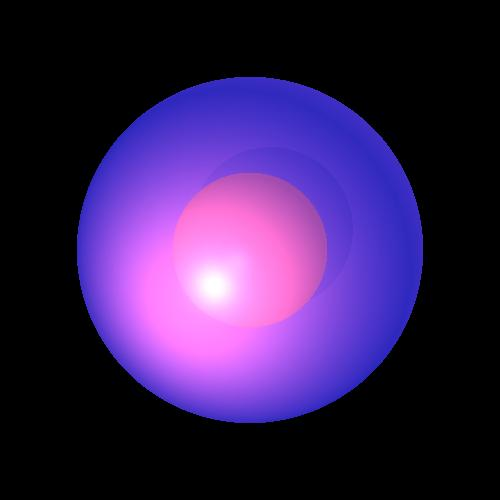
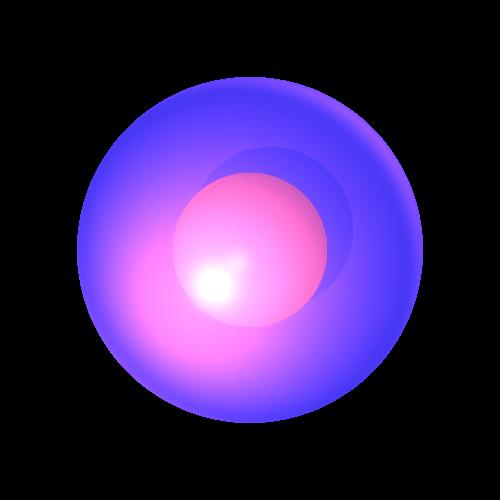
טיפה תיקונים

Changed region(s): [[0.15, 0.15, 0.87, 0.87]]

diff --git a/src/run.java b/src/run.java
@@ -39,7 +39,7 @@ int r , g ,b , Angle , t = 0,  _switch, lighttemp;
 
         while (t != 4 ) {
             System.out.println("for hourse test press 1\n" +
-                    "for shdow test press 2\n" +
+                    "for shadow test press 2\n" +
                     "for recursive test print 3 \n" +
                     "for exit press 4");
             Scanner s;
@@ -50,7 +50,7 @@ switch (_switch) {
     case 1:
         System.out.println("enter file name:");
         file_name = s.next();
-        System.out.println("enter itensity Color number between 0-100:");
+        System.out.println("enter intensity Color number between 0-10:");
         itensity = s.nextDouble();
         System.out.println("rendering");
 
@@ -296,7 +296,7 @@ switch (_switch) {
         b = s.nextInt();
         System.out.println("enter Angle:");
         Angle = s.nextInt();
-        System.out.println("enter itensity Color number between 0-100:");
+        System.out.println("enter itensity Color number between 0-10:");
         itensity = s.nextDouble();
         itensity /= 100;
         System.out.println("enter 1 to DirctionLight, enter 2 for pointLight, enter 3 for spot Light");
@@ -305,7 +305,7 @@ switch (_switch) {
             case 1: ligt = new DirectionalLight(new Color(r,g,b),new Vector(new Point3D(Math.sin(Angle)*-200,Math.cos(Angle)*-200,-200))) ;
                 break;
             case 2: ligt = new PointLight(new Color(r,g,b),new Point3D(Math.sin(Angle)*-200,Math.cos(Angle)*-200,-200), 0.1, 0.00001, 0.000005);
-                ((PointLight)ligt).setArea(10.0);
+                //((PointLight)ligt).setArea(10.0);
             break;
             case 3: ligt =  (new SpotLight(new Color(255, 100, 100), new Point3D(Math.sin(Angle)*-200 , Math.cos(Angle)*-200, -200),
                     new Vector(2, 2, -3), 0.1, 0.00001, 0.000005));
@@ -324,8 +324,8 @@ switch (_switch) {
         Sphere sphere = new Sphere(500, new Point3D(0.0, 0.0, -1000)) ;
         sphere.set_nShininess(20);
         sphere.set_emmission(new Color(0, 0, 100));
-        sphere.setKt(0.5);
-        sphere.setKd(0.8);
+        sphere.setKt(0.85);
+        //sphere.setKd(0.8);
         scene3.addGeometry(sphere);
 
         Sphere sphere2 = new Sphere(250, new Point3D(0.0, 0.0, -1000));

diff --git a/src/renderer/Render.java b/src/renderer/Render.java
@@ -303,8 +303,8 @@ public class Render implements Comparable<Render> {
         finalR =Math.min(255, _scene.get_ambientLight().getIntensity().getRed() + geometry.get_emmission().getRed() + difuseR + specularR + reflectedLight.getRed() + refractedLight.getRed());
         finalG =Math.min(255, _scene.get_ambientLight().getIntensity().getGreen() + geometry.get_emmission().getGreen() + difuseG + specularG + reflectedLight.getGreen() + refractedLight.getGreen());
         finalB =Math.min(255, _scene.get_ambientLight().getIntensity().getBlue() + geometry.get_emmission().getBlue() + difuseB + specularB + reflectedLight.getBlue() + refractedLight.getBlue());
-        Color IO = new Color(finalR, finalG, finalB);
-        return IO;
+        Color Phong_final = new Color(finalR, finalG, finalB);
+        return Phong_final;
 
     }
 
@@ -529,8 +529,8 @@ public class Render implements Comparable<Render> {
         Vector R = new Vector(lightToPoint);//R=D-...
         R.subtract(temp);
         double factor = cameraToPoint.dotProduct(R);
-        //if (factor >= 0)
-         //   return new Color(0,0,0);
+       // if (factor >= 0)
+          //  return new Color(0,0,0);
 
 
         factor = Math.pow(factor, nShininess);
@@ -589,7 +589,7 @@ public class Render implements Comparable<Render> {
     private double occluded(LightSource light, Point3D point, Geometry geometry) throws Exception {
         Point3D geometryPoint = new Point3D(point);
         Vector epsVector = new Vector(geometry.getNormal(point));
-        epsVector.scale(0.2);
+        epsVector.scale(0.0002);
         geometryPoint.add(epsVector);
 
         if (light instanceof PointLight && ((PointLight) light).getArea() != 0) {
@@ -699,10 +699,10 @@ public class Render implements Comparable<Render> {
 
         Vector epsVec = new Vector(normal);
         if(normal.dotProduct(R) < 0){
-            epsVec.scale(-0.2);
+            epsVec.scale(-0.00002);
         }
         else {
-            epsVec.scale(2);
+            epsVec.scale(0.000002);
         }
 
         Point3D pointIn = new Point3D(point);

diff --git a/Test/renderer/RenderTest_Rcorsive.java b/Test/renderer/RenderTest_Rcorsive.java
@@ -24,7 +24,7 @@ public class RenderTest_Rcorsive {
         Sphere sphere = new Sphere(500, new Point3D(0.0, 0.0, -1000)) ;
         sphere.set_nShininess(20);
         sphere.set_emmission(new Color(0, 0, 100));
-        sphere.setKt(0.5);
+        sphere.setKt(0.9);
         //sphere.setKd(0.8);
         scene.addGeometry(sphere);
 
